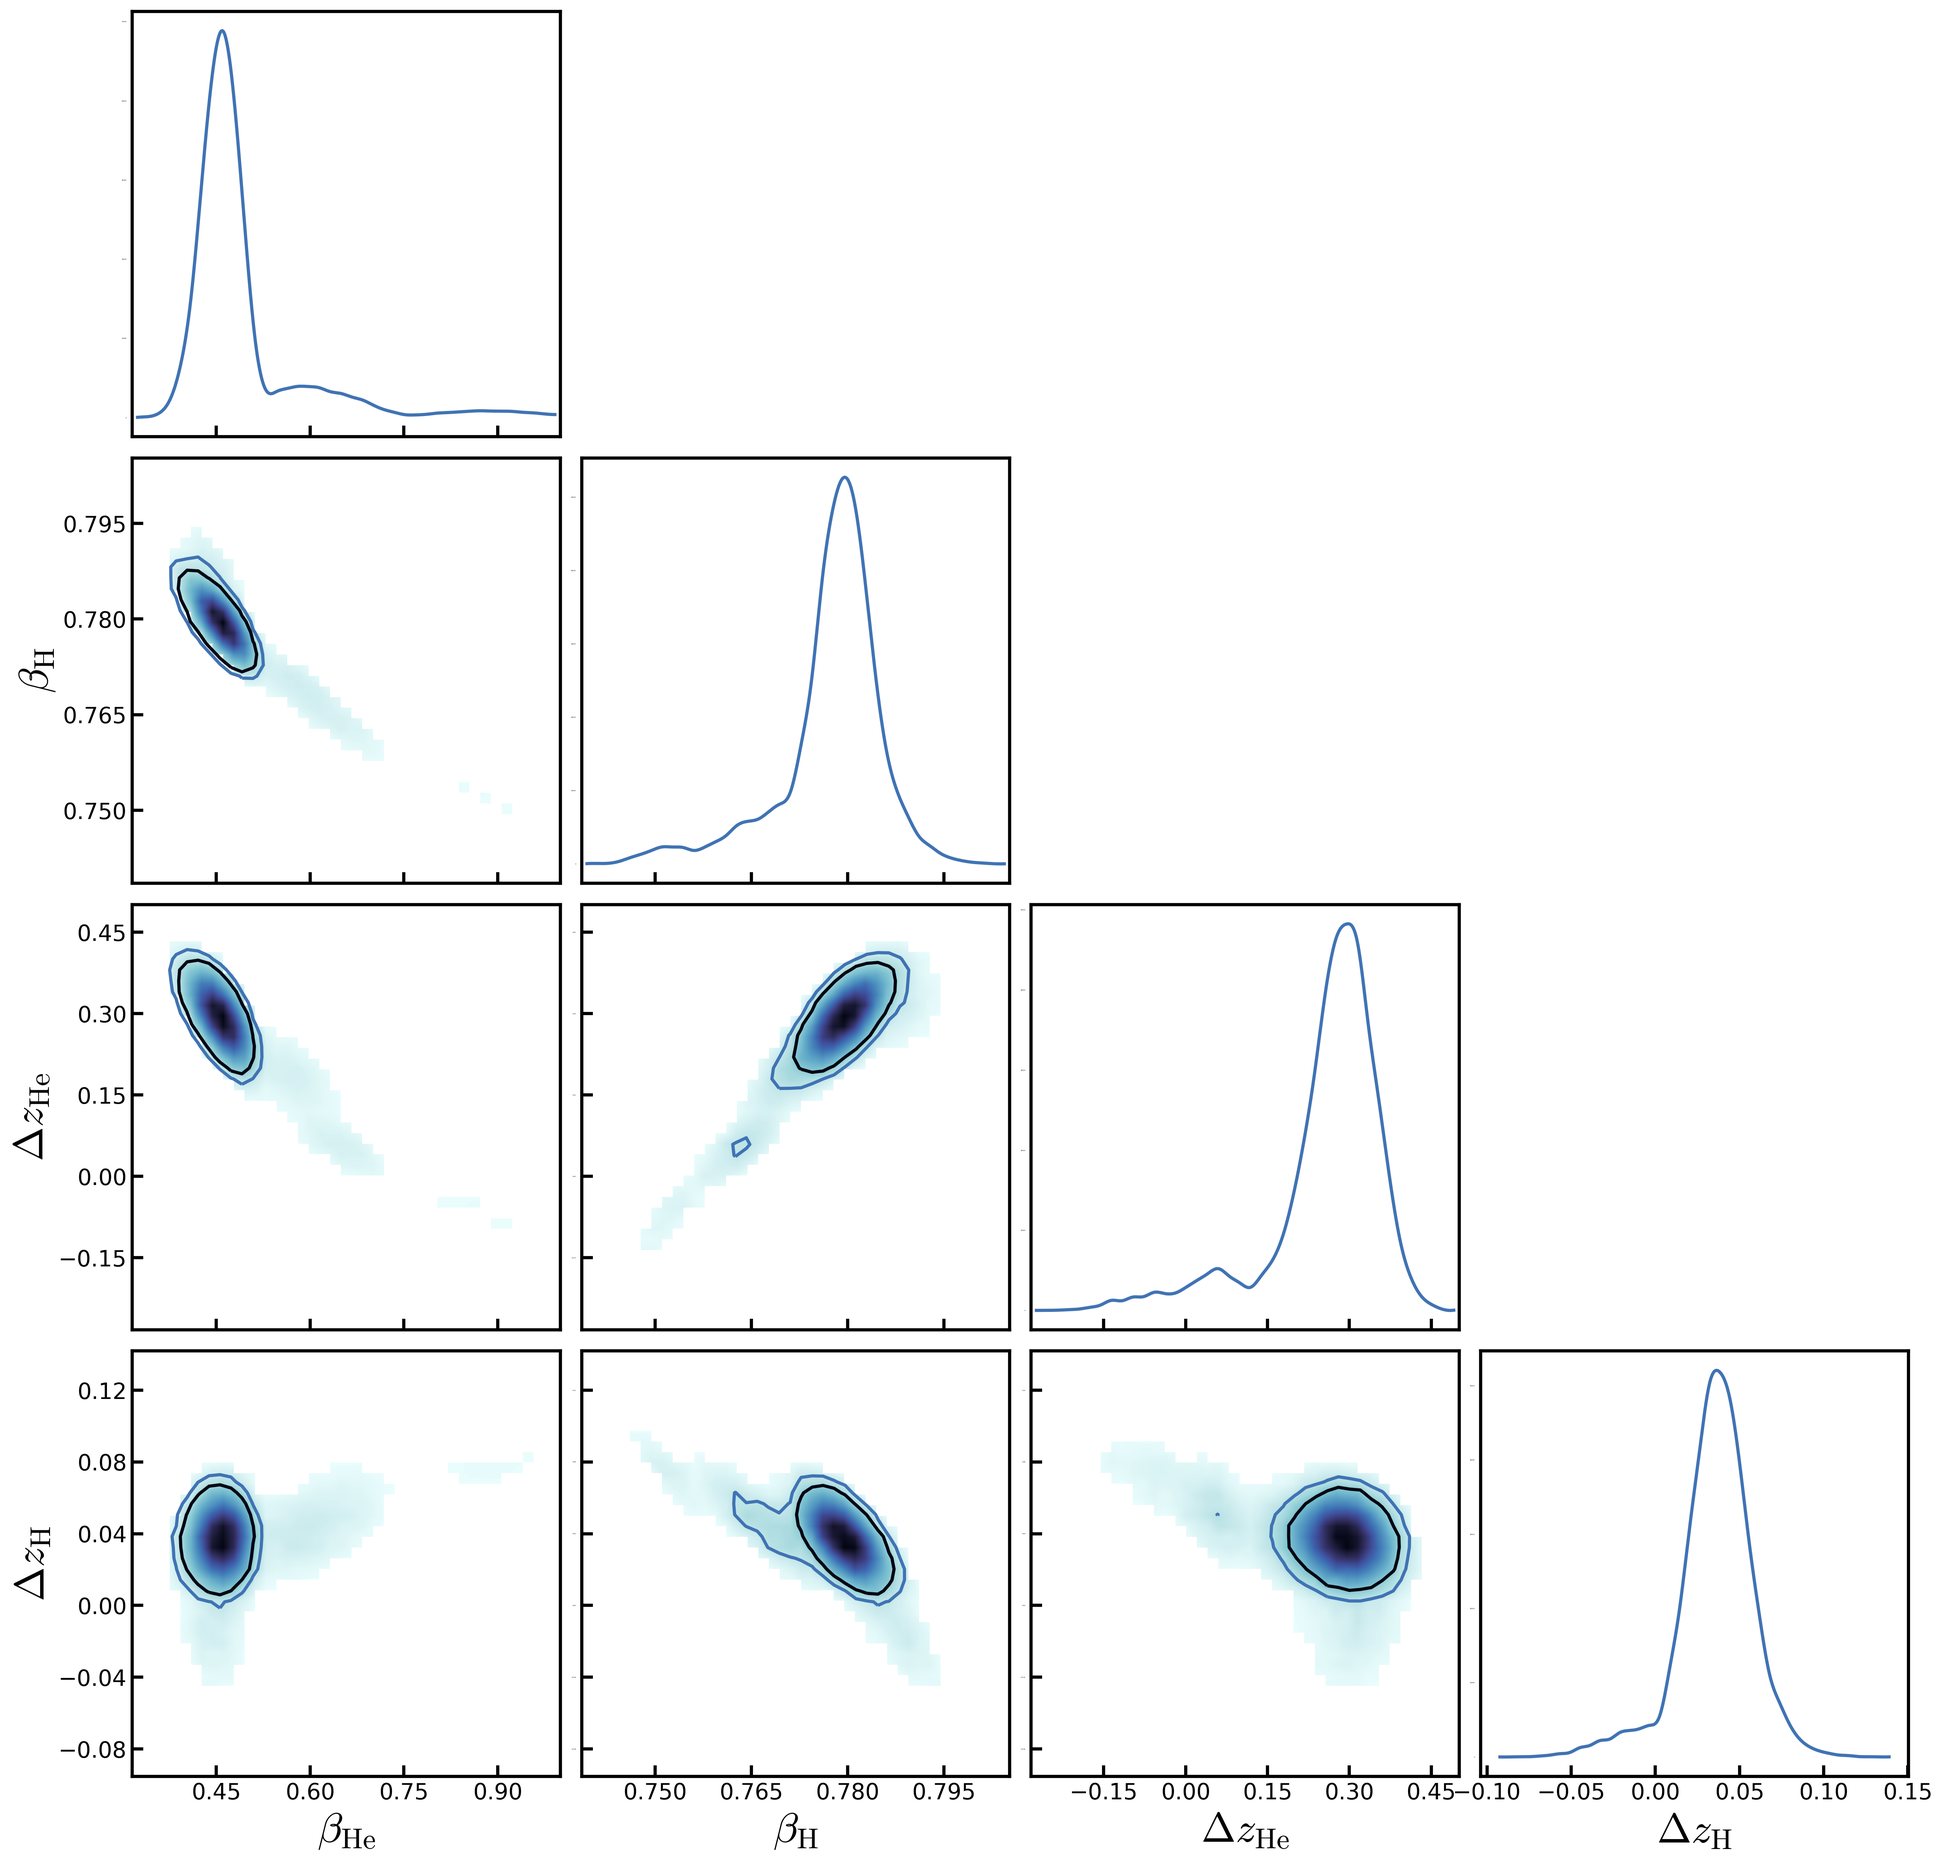
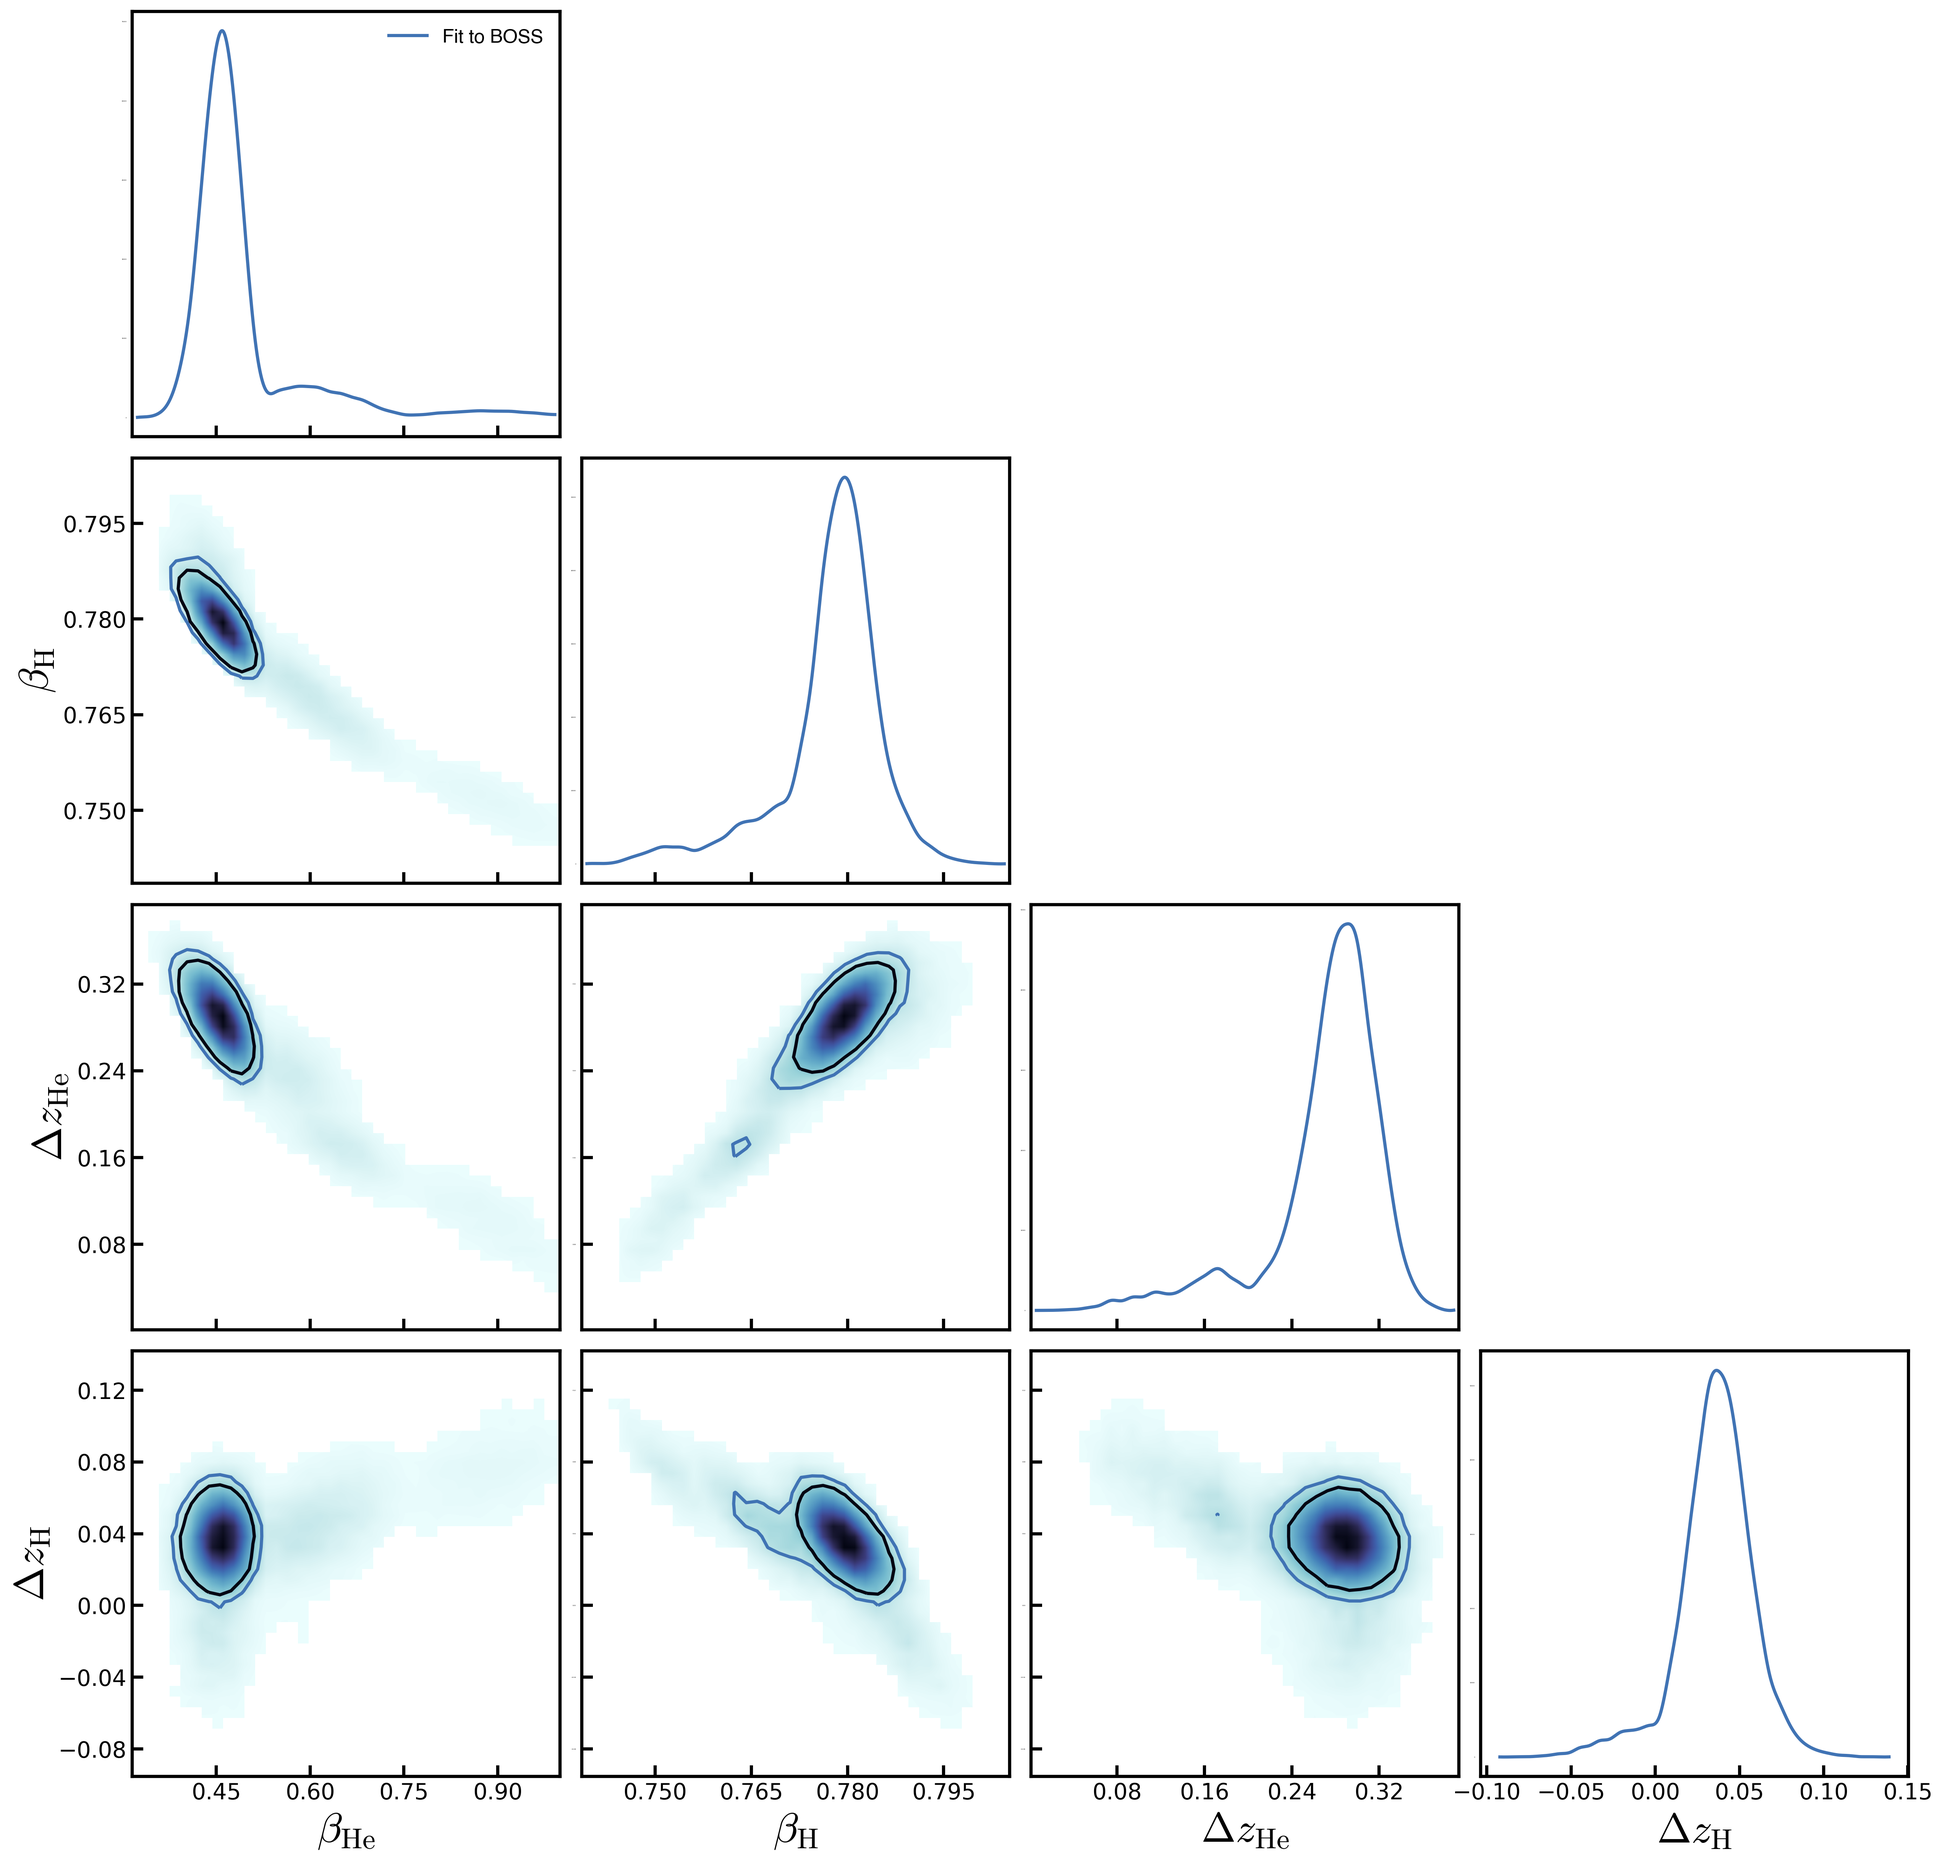
new

diff --git a/astro/_posts/2021-04-16-fit_boss_walther_power_spectrum.md b/astro/_posts/2021-04-16-fit_boss_walther_power_spectrum.md
@@ -1,0 +1,49 @@
+---
+layout: post
+title: "Fit to BOSS and  Walther P(k)  "
+date:   2021-04-16 08:00:24 -0800
+categorines: cholla
+---
+
+
+First the results from **fitting to the BOSS P(k) + tau_HeII**
+
+
+<img src="{{ site.url }}assets/images/corner_boss.png">
+
+
+
+Now the results from **fitting to the Rescaled Walther P(k) + tau_HeII**
+
+
+<img src="{{ site.url }}assets/images/corner_walther.png">
+
+
+
+Finally the results from **fitting to the BOSS and the Rescaled Walther P(k) + tau_HeII**
+
+<img src="{{ site.url }}assets/images/corner_boss_walther.png">
+
+
+The Temperature evolution from the different fits:
+
+
+<img src="{{ site.url }}assets/images/fig_T0_sampling_boss_walther.png">
+
+
+The Optical Depth evolution from the different fits:
+
+
+<img src="{{ site.url }}assets/images/fig_tau_HeII_sampling_boss_walther.png">
+
+
+The Evolution of P(k) from the different fits:
+
+
+
+<img src="{{ site.url }}assets/images/fig_flux_ps_samples_large_boss_walther.png">
+
+<img src="{{ site.url }}assets/images/fig_flux_ps_samples_middle_boss_walther.png">
+
+<img src="{{ site.url }}assets/images/fig_flux_ps_samples_all_boss_walther.png">
+
